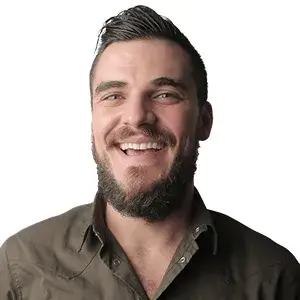
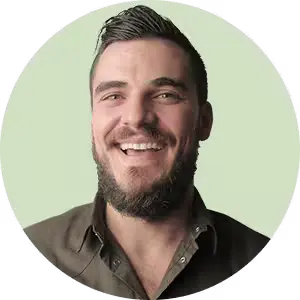
Complete Teachers section

diff --git a/src/partials/sections/teachers.html b/src/partials/sections/teachers.html
@@ -1,4 +1,4 @@
-<section class="section teachers">
+<section class="section teachers" id="teachers">
   <div class="container">
     <h2 class="section-title section-title--teachers">
       Meet our <span class="accent-line">teachers</span>
@@ -7,5 +7,128 @@
       Discover our team of dedicated educators, committed to guiding you on your
       journey to English proficiency with personalized and engaging instruction
     </p>
+
+    <ul class="teachers-list">
+      <li class="teachers-item">
+        <picture>
+          <source
+            type="image/webp"
+            srcset="
+              ./img/teachers/teacher-1@1x.webp 1x,
+              ./img/teachers/teacher-1@2x.webp 2x
+            "
+          />
+
+          <img
+            class="teacher-img"
+            src="./img/teachers/teacher-1@1x.jpg"
+            srcset="
+              ./img/teachers/teacher-1@1x.jpg 1x,
+              ./img/teachers/teacher-1@2x.jpg 2x
+            "
+            width="150"
+            height="150"
+            alt="Maria's photo"
+            loading="lazy"
+          />
+        </picture>
+
+        <p class="teacher-name">Maria</p>
+        <p class="teacher-description">
+          A seasoned linguist and our primary specialist in beginner-level
+          instruction, Maria brings warmth and patience to every class
+        </p>
+      </li>
+      <li class="teachers-item">
+        <picture>
+          <source
+            type="image/webp"
+            srcset="
+              ./img/teachers/teacher-2@1x.webp 1x,
+              ./img/teachers/teacher-2@2x.webp 2x
+            "
+          />
+
+          <img
+            class="teacher-img"
+            src="./img/teachers/teacher-2@1x.jpg"
+            srcset="
+              ./img/teachers/teacher-2@1x.jpg 1x,
+              ./img/teachers/teacher-2@2x.jpg 2x
+            "
+            width="150"
+            height="150"
+            alt="Artem's photo"
+            loading="lazy"
+          />
+        </picture>
+
+        <p class="teacher-name">Artem</p>
+        <p class="teacher-description">
+          With his innovative teaching techniques and a focus on interactive
+          learning, Artem excels in keeping students engaged and motivated
+        </p>
+      </li>
+      <li class="teachers-item">
+        <picture>
+          <source
+            type="image/webp"
+            srcset="
+              ./img/teachers/teacher-3@1x.webp 1x,
+              ./img/teachers/teacher-3@2x.webp 2x
+            "
+          />
+
+          <img
+            class="teacher-img"
+            src="./img/teachers/teacher-3@1x.jpg"
+            srcset="
+              ./img/teachers/teacher-3@1x.jpg 1x,
+              ./img/teachers/teacher-3@2x.jpg 2x
+            "
+            width="150"
+            height="150"
+            alt="Ilona's photo"
+            loading="lazy"
+          />
+        </picture>
+        <p class="teacher-name">Ilona</p>
+        <p class="teacher-description">
+          A specialist in advanced English, Ilona provides intensive
+          instruction, ensuring students gain confidence in complex language
+          tasks
+        </p>
+      </li>
+      <li class="teachers-item">
+        <picture>
+          <source
+            type="image/webp"
+            srcset="
+              ./img/teachers/teacher-4@1x.webp 1x,
+              ./img/teachers/teacher-4@2x.webp 2x
+            "
+          />
+
+          <img
+            class="teacher-img"
+            src="./img/teachers/teacher-4@1x.png"
+            srcset="
+              ./img/teachers/teacher-4@1x.png 1x,
+              ./img/teachers/teacher-4@2x.png 2x
+            "
+            width="150"
+            height="150"
+            alt="Volodymyr's photo"
+            loading="lazy"
+          />
+        </picture>
+        <p class="teacher-name">Volodymyr</p>
+        <p class="teacher-description">
+          Our expert in English for specific purposes, Volodymyr tailors his
+          approach to meet individual career and industry-specific language
+          needs
+        </p>
+      </li>
+    </ul>
   </div>
 </section>

diff --git a/src/css/teachers.css b/src/css/teachers.css
@@ -1,2 +1,58 @@
-.teachers {
+.teachers-list {
+  display: flex;
+  flex-direction: column;
+  gap: 40px;
+}
+
+.teacher-img {
+  margin: 0 auto;
+  margin-bottom: 16px;
+  border-radius: 50%;
+}
+
+.teacher-name {
+  font-weight: 700;
+  font-size: 20px;
+  line-height: 1.2;
+  letter-spacing: -0.02em;
+  text-align: center;
+  color: var(--black);
+
+  margin-bottom: 8px;
+}
+
+.teacher-description {
+  font-size: 14px;
+  line-height: 24px;
+  text-align: center;
+  color: var(--color-text-muted);
+}
+
+@media screen and (min-width: 768px) {
+  .teachers-list {
+    flex-direction: row;
+    flex-wrap: wrap;
+    justify-content: center;
+    gap: 32px;
+    padding: 0 64px;
+  }
+
+  .teachers-item {
+    max-width: calc((100% - 32px) / 2);
+  }
+
+  .teacher-description {
+    font-size: 16px;
+  }
+}
+
+@media screen and (min-width: 1280px) {
+  .teachers-list {
+    flex-wrap: nowrap;
+    padding: 0;
+  }
+
+  .teachers-item {
+    max-width: calc((100% - 32px * 3) / 4);
+  }
 }
